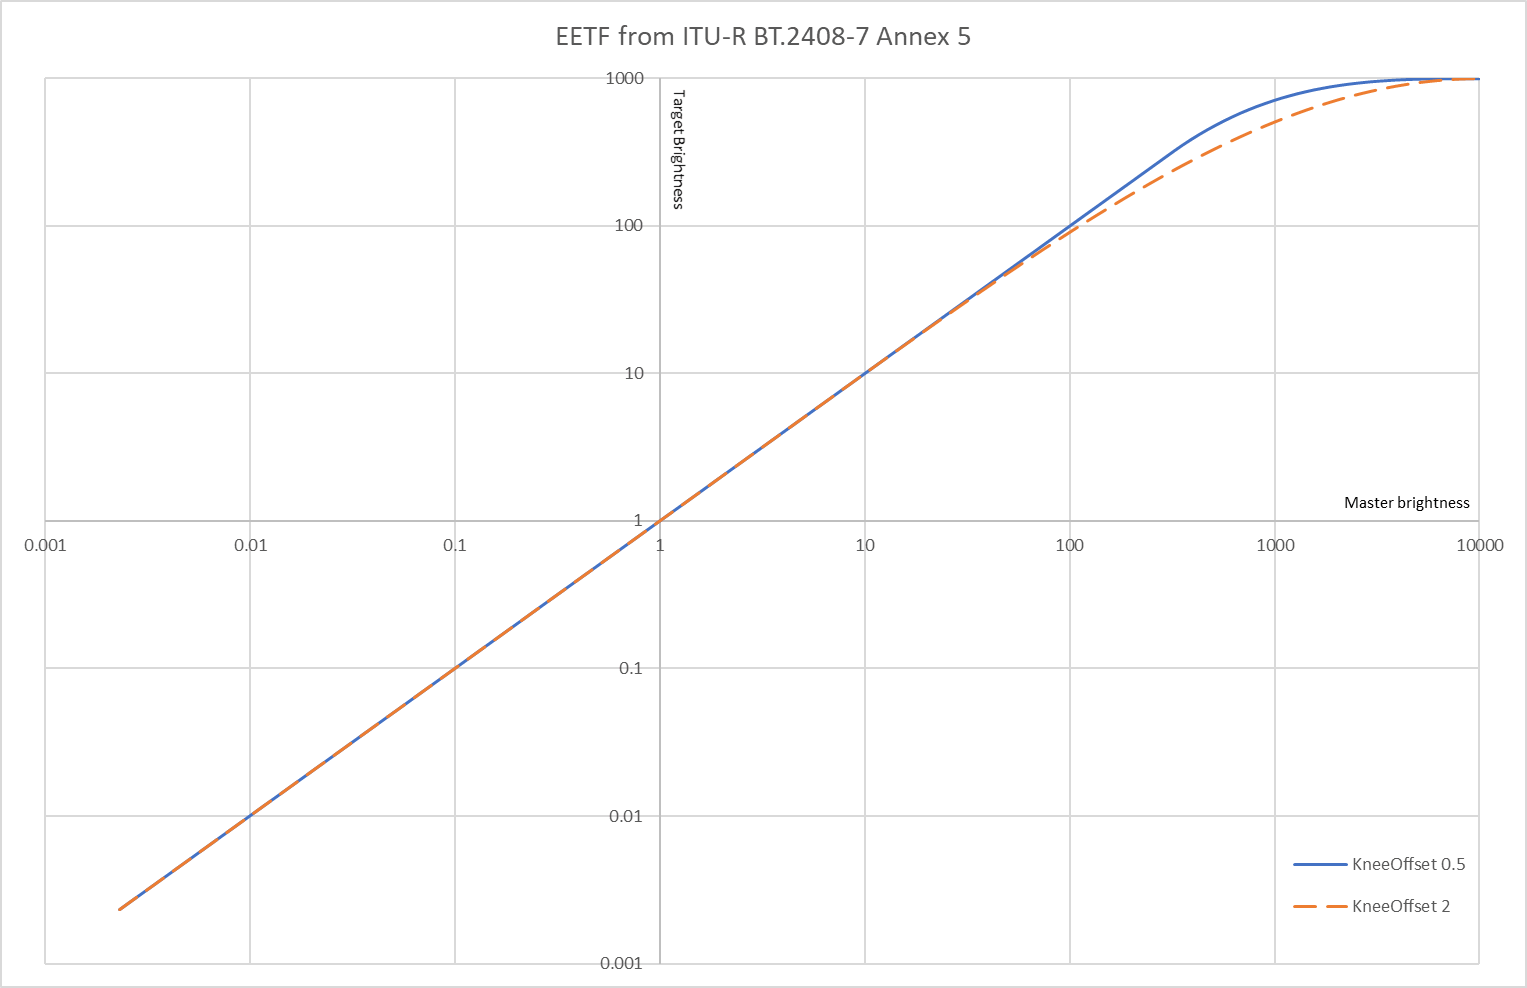
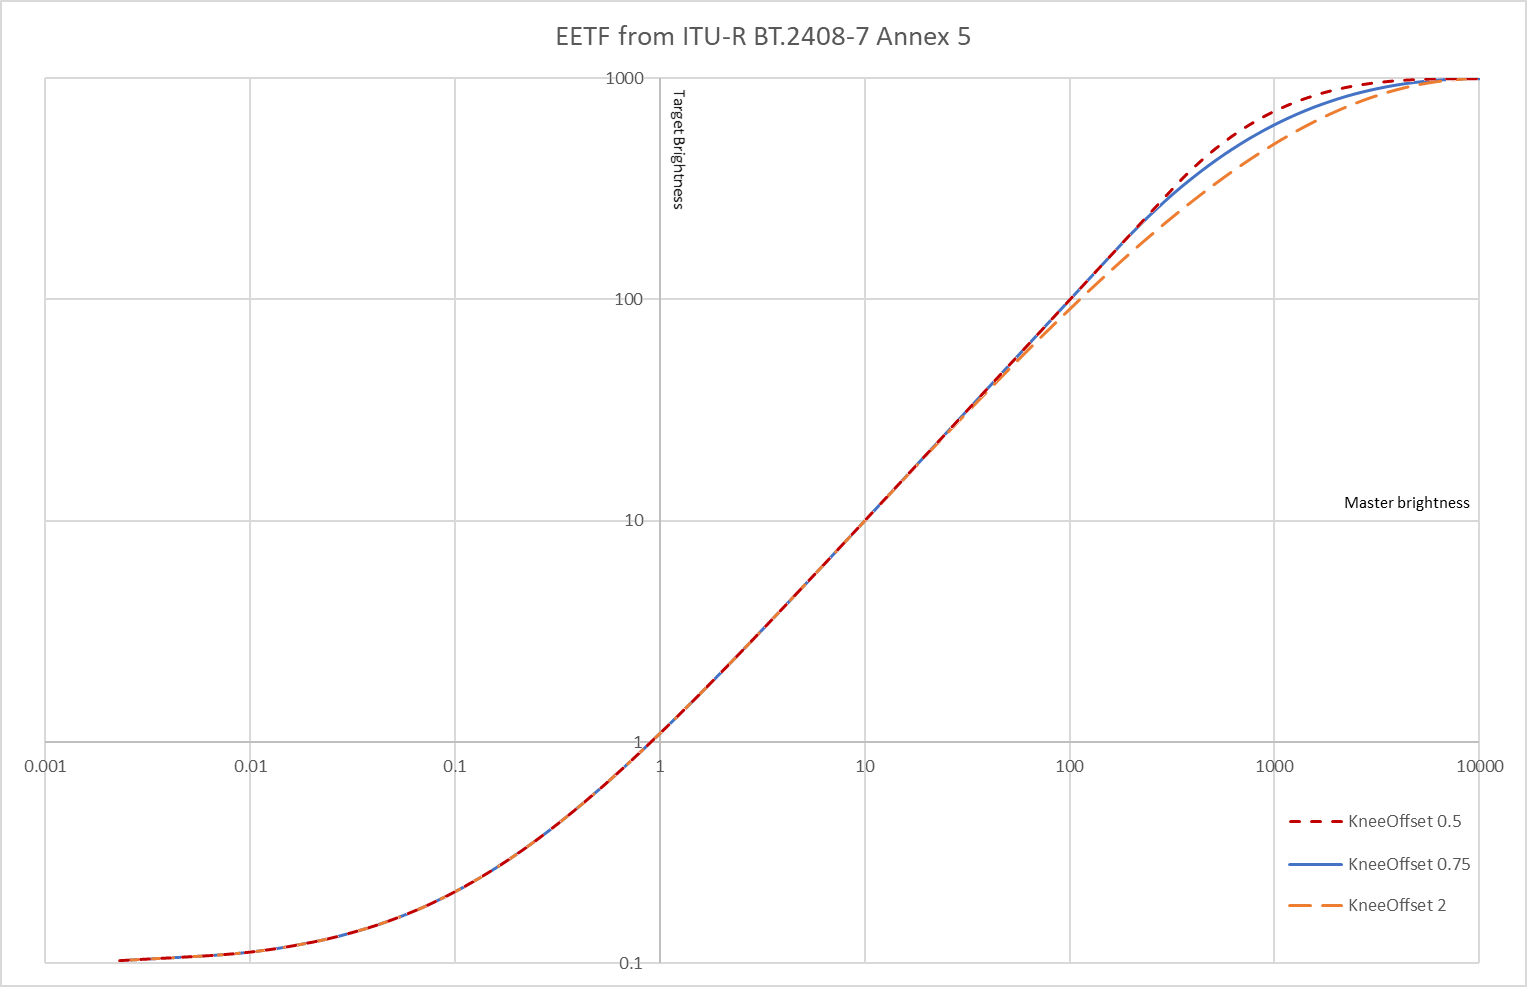
improve handling of min target brightness

diff --git a/DoViBaker/DoViEetf.cpp b/DoViBaker/DoViEetf.cpp
@@ -23,18 +23,19 @@ void DoViEetf<signalBitDepth>::generateEETF(
 	// based on report ITU-R BT.2408-7 Annex 5 (was in ITU-R BT.2390 until revision 7)
 	float masterMaxEp = DoViProcessor::EOTFinv(DoViProcessor::EOTF(masterMaxPq / 4095.0f) * lumScale);
 	float masterMinEp = DoViProcessor::EOTFinv(DoViProcessor::EOTF(masterMinPq / 4095.0f) * lumScale);
-	float targetMaxEp = targetMaxPq / 4095.0f;
-	float targetMinEp = targetMinPq / 4095.0f;
+	const float targetMaxEp = targetMaxPq / 4095.0f;
+	const float targetMinEp = targetMinPq / 4095.0f;
 
-	// this is not from the report
-	// any mapping is unnecessary while inside the range of tragets capabilities
+	// This is not from the report.
+	// Any mapping is unnecessary while inside the range of tragets capabilities
 	masterMaxEp = fmaxf(masterMaxEp, targetMaxEp);
 	masterMinEp = fminf(masterMinEp, targetMinEp);
 
-	float maxLum = (targetMaxEp - masterMinEp) / (masterMaxEp - masterMinEp);
-	float minLum = (targetMinEp - masterMinEp) / (masterMaxEp - masterMinEp);
-	float kneeStart = (1 + kneeOffset) * maxLum - kneeOffset;
-	float b = minLum;
+	const float maxLum = (targetMaxEp - masterMinEp) / (masterMaxEp - masterMinEp);
+	const float minLum = (targetMinEp - masterMinEp) / (masterMaxEp - masterMinEp);
+	const float kneeStart = (1 + kneeOffset) * maxLum - kneeOffset;
+	const float b = minLum;
+	const float taperPwr = 1 / std::clamp(b, 0.01f, 0.3333333f);
 
 	for (int inSignal = 0; inSignal < LUT_SIZE; inSignal++) {
 		float ep = inSignal / float(LUT_SIZE - 1);
@@ -42,24 +43,26 @@ void DoViEetf<signalBitDepth>::generateEETF(
 		ep = DoViProcessor::EOTFinv(e);
 		float e1 = (ep - masterMinEp) / (masterMaxEp - masterMinEp);
 
-		// this following claming is not from the report
-		// it serves to stop using the spline above where it is supposed to be used 
-		// this works only in conjunction with the change above
+		// This following clamping is not from the report.
+		// It serves to stop using the spline above where it is supposed to be used.
+		// This works only in conjunction with the change above
 		e1 = std::clamp(e1, 0.0f, 1.0f); 
 
-		float e2 = (kneeStart < 1 && e1 > kneeStart) ? eetfSpline(e1, kneeStart, maxLum) : e1;
+		const float e2 = (kneeStart < 1 && e1 > kneeStart) ? eetfSpline(e1, kneeStart, maxLum) : e1;
 
-		// following code line is not like in the report
-		// there the tapring factor is b*(1-e2)^4. this is however incorrect, 
-		// since this increases the brightness also in the high end above KS.
-		// using e1 instead of e2 works only together with the change above
-		float e3 = e2 + b * powf(1 - e1, 4);
+		// Following code line is not like in the report.
+		// There the tapering factor is b*(1-e2)^4. This is however incorrect, 
+		// since the dependence on e2 increases the brightness also in the high end.
+		// Using e1 instead of e2 works only together with all the changes above.
+		// Additionally the fixed power of 4 is unnecessarily low and thus increases 
+		// the low end brightness too much. It can be set to 1/b, so long it's above 3.
+		const float e3 = e2 + b * powf(1 - e1, taperPwr);
 		
 		float e4 = e3 * (masterMaxEp - masterMinEp) + masterMinEp;
-		e4 = std::clamp(e4, 0.0f, 1.0f);
 		if (normalizeOutput) {
-			e4 /= targetMaxEp;
+			e4 = (e4 - targetMinEp) / (targetMaxEp - targetMinEp);
 		}
+		e4 = std::clamp(e4, 0.0f, 1.0f);
 		uint16_t outSignal = e4 * (LUT_SIZE - 1) + 0.5f;
 		lut[inSignal] = outSignal;
 	}

diff --git a/DoViBaker/AvisynthEntry.cpp b/DoViBaker/AvisynthEntry.cpp
@@ -205,7 +205,7 @@ AVSValue __cdecl Create_DoViTonemap(AVSValue args, void* user_data, IScriptEnvir
     args[3].AsFloat(10000),
     args[4].AsFloat(0),
     args[5].AsFloat(1),
-    args[6].AsFloat(0.5),
+    args[6].AsFloat(0.75),
     args[7].AsBool(false),
     &args, env);
 }
@@ -217,7 +217,7 @@ extern "C" __declspec(dllexport) const char* __stdcall AvisynthPluginInit3(IScri
   AVS_linkage = vectors;
 
   env->AddFunction("DoViBaker", "c[el]c[rpu]s[trimPq]i[targetMaxNits]f[targetMinNits]f[qnd]b[rgbProof]b[nlqProof]b", Create_DoViBaker, 0);
-  env->AddFunction("DoViTonemap", "c[targetMaxNits]f[targetMinNits]f[masterMaxNits]f[masterMinNits]f[lumScale]f[kneeOffset]f[normalize]b", Create_DoViTonemap, 0);
+  env->AddFunction("DoViTonemap", "c[targetMaxNits]f[targetMinNits]f[masterMaxNits]f[masterMinNits]f[lumScale]f[kneeOffset]f[normalizeOutput]b", Create_DoViTonemap, 0);
   env->AddFunction("DoViCubes", "c[cubes]s[mclls]s[cubes_basepath]s[fullrange]b", Create_DoViCubes, 0);
   env->AddFunction("DoViStatsFileLoader", "c[statsFile]s[sceneCutsFile]s", Create_DoViStatsFileLoader, 0);
 
@@ -419,7 +419,7 @@ int main(int argc, char* argv[])
     uint16_t targetMinPq = DoViProcessor::nits2pq(2);
     uint16_t masterMaxPq = DoViProcessor::nits2pq(2000);
     uint16_t masterMinPq = DoViProcessor::nits2pq(1);
-    DoViEetf<12> tonemap(0.5, false);
+    DoViEetf<12> tonemap(0.75, false);
     tonemap.generateEETF(targetMaxPq, targetMinPq, masterMaxPq, masterMinPq, 1.0);
     for (int i = 0; i <= 255; i++) {
       uint16_t signal = i * 4095.0 / 255 + 0.5;

diff --git a/README.md b/README.md
@@ -63,14 +63,14 @@ subtitle("maxcll = " + string(mcll))
 ```
 
 # DoViTonemap
-This plugin processes the tonemapping of any HDR PQ streams to lower dynamic range targets. The implementation follows ITU-R BT.2408-7 Annex 5 (was in ITU-R BT.2390 until revision 7), with the addition of an optional luminosity factor which scales the brightness linearily.
+This plugin processes the tonemapping of any HDR PQ streams to lower dynamic range targets. The implementation is based on ITU-R BT.2408-7 Annex 5 (was in ITU-R BT.2390 until revision 7), with the addition of an optional luminosity factor which scales the brightness linearily.
 
 The following arguments control the tonemapping function: 
 - `masterMaxNits` and `masterMinNits` set the white and black brightness value of the source. The values for the master brightness can be either given explicitly or `masterMaxNits` and `masterMinNits` can both be set to `-1` which will indicate that the actual values are read from the related frame properties `_dovi_dynamic_max_pq` and `_dovi_dynamic_min_pq` which are set by `DoViBaker` or `DoViStatsFileLoader`, leading to a dynamic tonemapping. 
 - `targetMaxNits` and `targetMinNits` set the desired target capabilities. These must be given explicitly.
 - `lumScale` changes the total brightness, this can be usefull since many HDR PQ and DV streams are actually too dark, darker then the respective SDR streams. To find the proper `lumScale` factor you might use the script `LumScaleFindHelper.avs`. It is also possible to read the luminosity factor from the frame property `_dovi_dynamic_luminosity_scale` by setting `lumSacle` to -1.
-- `kneeOffset` is a parameter of the tonemapping function, which governs the size of the region where the tonemapping function is flattened (see figure below). The mathematical validity range is [0.5, 2.0]. In the report BT.2408 this value is fixed at 0.5, which is also used as the default value here. Especially for dynamic tonemapping (targetMaxNits=-1) it is however advisable to set this to 1.
-- `normalize` normalizes the output to `targetMaxNits`. This can be usefull when the output is just an intermediate result which further processed, since the usage of the full value range decreases rounding errors down the line.
+- `kneeOffset` is a parameter of the tonemapping function, which governs the size of the region where the tonemapping function is flattened (see figure below). The mathematical validity range is [0.5, 2.0]. In the report BT.2408 this value is fixed at 0.5, which leads to very low contrast in the high range favoring max brightness. Here the default value used is 0.75 which should be a better compromise overall, especially when using dynamic tonemapping.
+- `normalizeOutput` normalizes the output from [`targetMinNits`, `targetMaxNits`] to the full range. This can be usefull when the output is just an intermediate result which is further processed, since the usage of the full value range decreases rounding errors down the line.
 
 This example applies a dynamic tonemapping to a 1000nits target reading the current max brightness value off the frame properties which are set by DoViBaker. The luminosity scale used is 1.0. In order to increase the perceived total brightness, this factor can be increased to 1.5 or 2.0 or even higher.
 ```
@@ -78,7 +78,7 @@ DoViBaker(bl,el)
 DoViTonemap(lumScale=1.0, masterMaxNits=-1, targetMaxNits=1000, masterMinNits=0, targetMinNits=0)
 ```
 
-This is the functional form of the tonemapping function with the following parameters: masterMaxNits=10000, targetMaxNits=1000, masterMinNits=0, targetMinNits=0, lumscale=1, kneeOffset=0.5.
+This is the functional form of the tonemapping function with the following parameters: masterMaxNits=10000, targetMaxNits=1000, masterMinNits=0, targetMinNits=0.1, lumscale=1.
 ![Tonemapping function](EETF.png "Tonemapping function")
 ## Frame Properties
 The following frame properties will be consumed, if the related arguments are set to -1:
@@ -140,7 +140,7 @@ Used to find `lumScale` for `DoViTonemap` manually. This is the factor by which 
 Needed by `LumScaleHelper.avs` for showing a more correct and better comparable grayscale of PQ and SDR sources.
 
 # DoViAnalyzer
-This application analyzes the RPU.bin file in order to show information relevant to deciding whether it is worth to use DoViBaker or if this can be skipped completly and the Base Layer can be used directly.
+This application analyzes the RPU.bin file in order to show information relevant to deciding whether it is worth to use DoViBaker or if this can be skipped completely and the Base Layer can be used directly.
 
 ```
 usage: DoViAnalyzer.exe <path_to_rpu.bin_file> <optional_scenecutfile.txt>
@@ -167,5 +167,5 @@ I had some issues linking against Timecube. I was constantly getting the followi
 fatal error C1083: Cannot open compiler generated file: 'x64\Release\timecube.asm': No such file or directory
 ```
 
-It turnes out that this is related to the following setting: "Properies" (of the timecube project) -> "C++" -> "Output Files" -> "Assembler Output".
+It turnes out that this is related to the following setting: "Properties" (of the timecube project) -> "C++" -> "Output Files" -> "Assembler Output".
 Setting this to "No Listing" resolves the issue.
